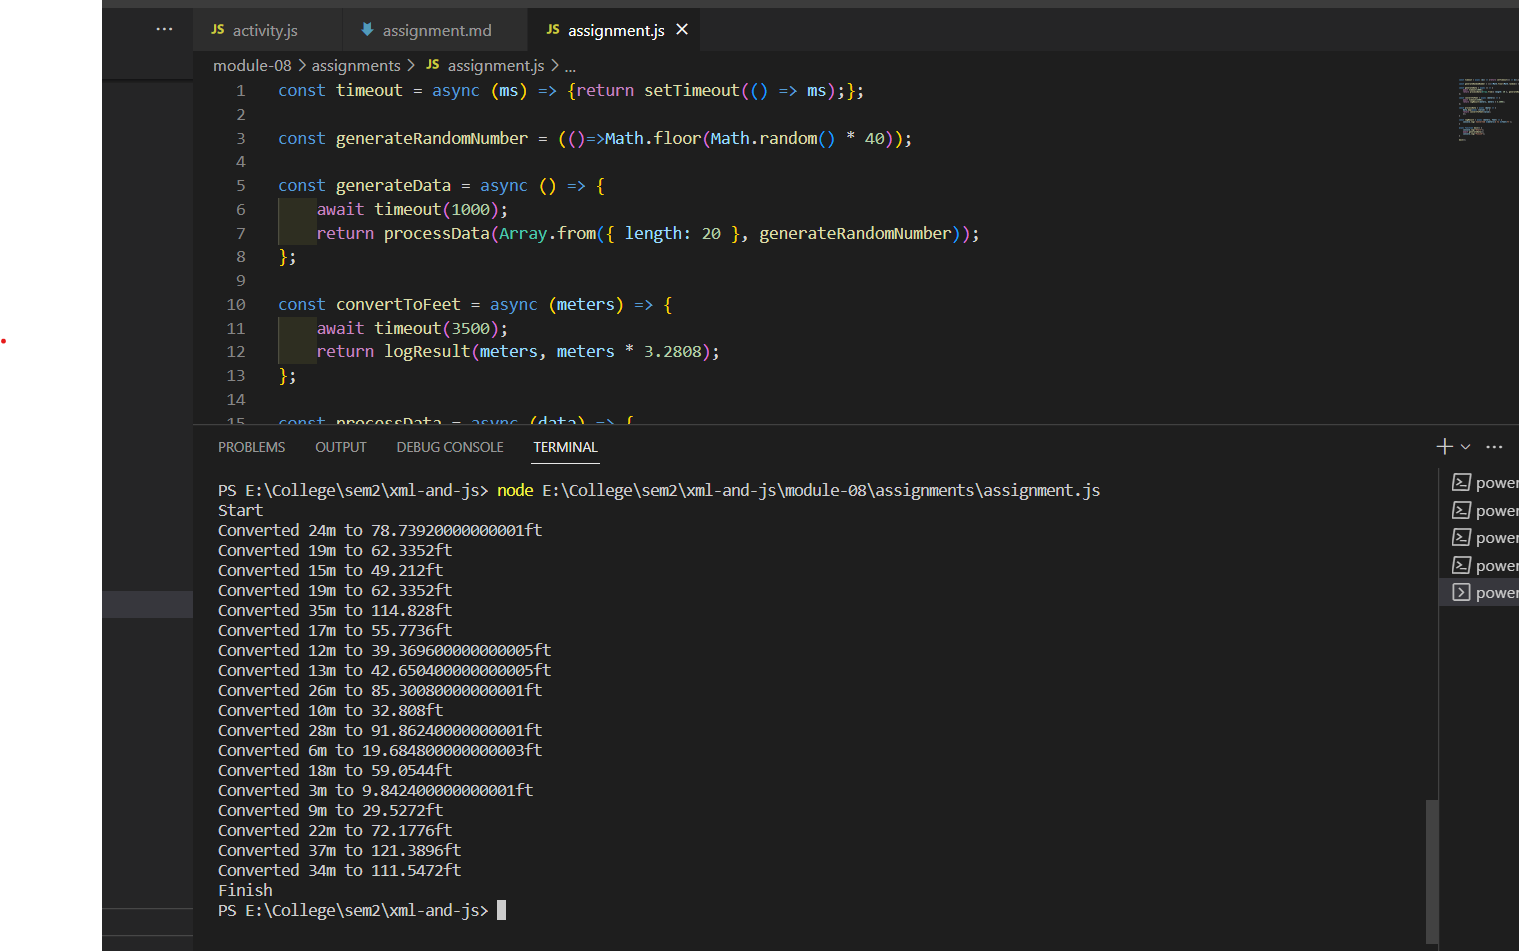
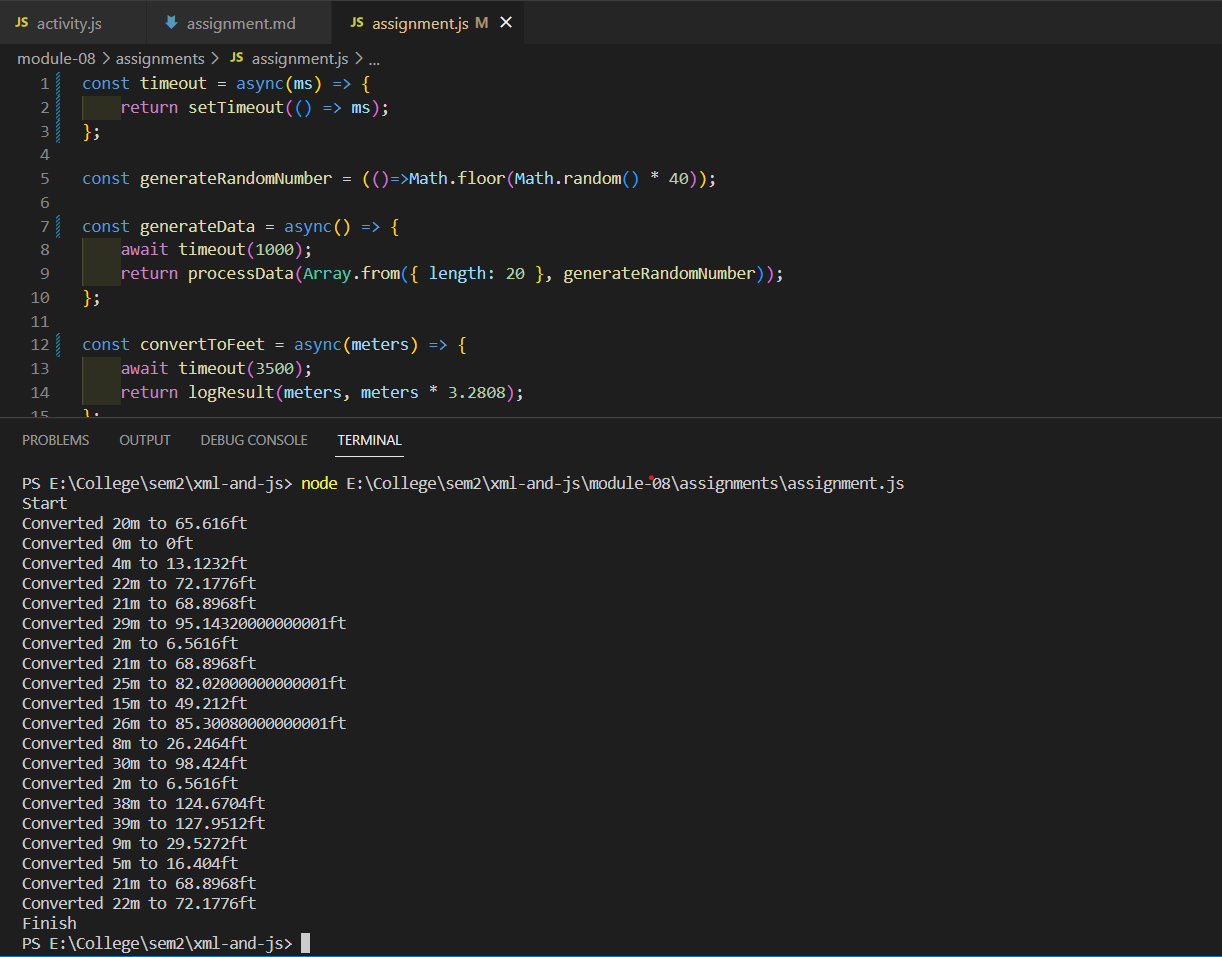
module8 assignment

diff --git a/module-08/assignments/assignment.js b/module-08/assignments/assignment.js
@@ -1,24 +1,26 @@
-const timeout = async (ms) => {return setTimeout(() => ms);};
+const timeout = async(ms) => {
+	return setTimeout(() => ms);
+};
 
 const generateRandomNumber = (()=>Math.floor(Math.random() * 40));
 
-const generateData = async () => {
+const generateData = async() => {
 	await timeout(1000);
 	return processData(Array.from({ length: 20 }, generateRandomNumber));
 };
 
-const convertToFeet = async (meters) => {
+const convertToFeet = async(meters) => {
 	await timeout(3500);
 	return logResult(meters, meters * 3.2808);
 };
 
-const processData = async (data) => {
+const processData = async(data) => {
     data.map(async (value) => {
     return convertToFeet(value);
     });
 }
 
-const logResult = async (meters, feet) => {
+const logResult = async(meters, feet) => {
     console.log(`Converted ${meters}m to ${feet}ft`);
 }
 
@@ -27,5 +29,4 @@ async function main() {
     await generateData();
     console.log("Finish");
 }
-
-main();
+main()
